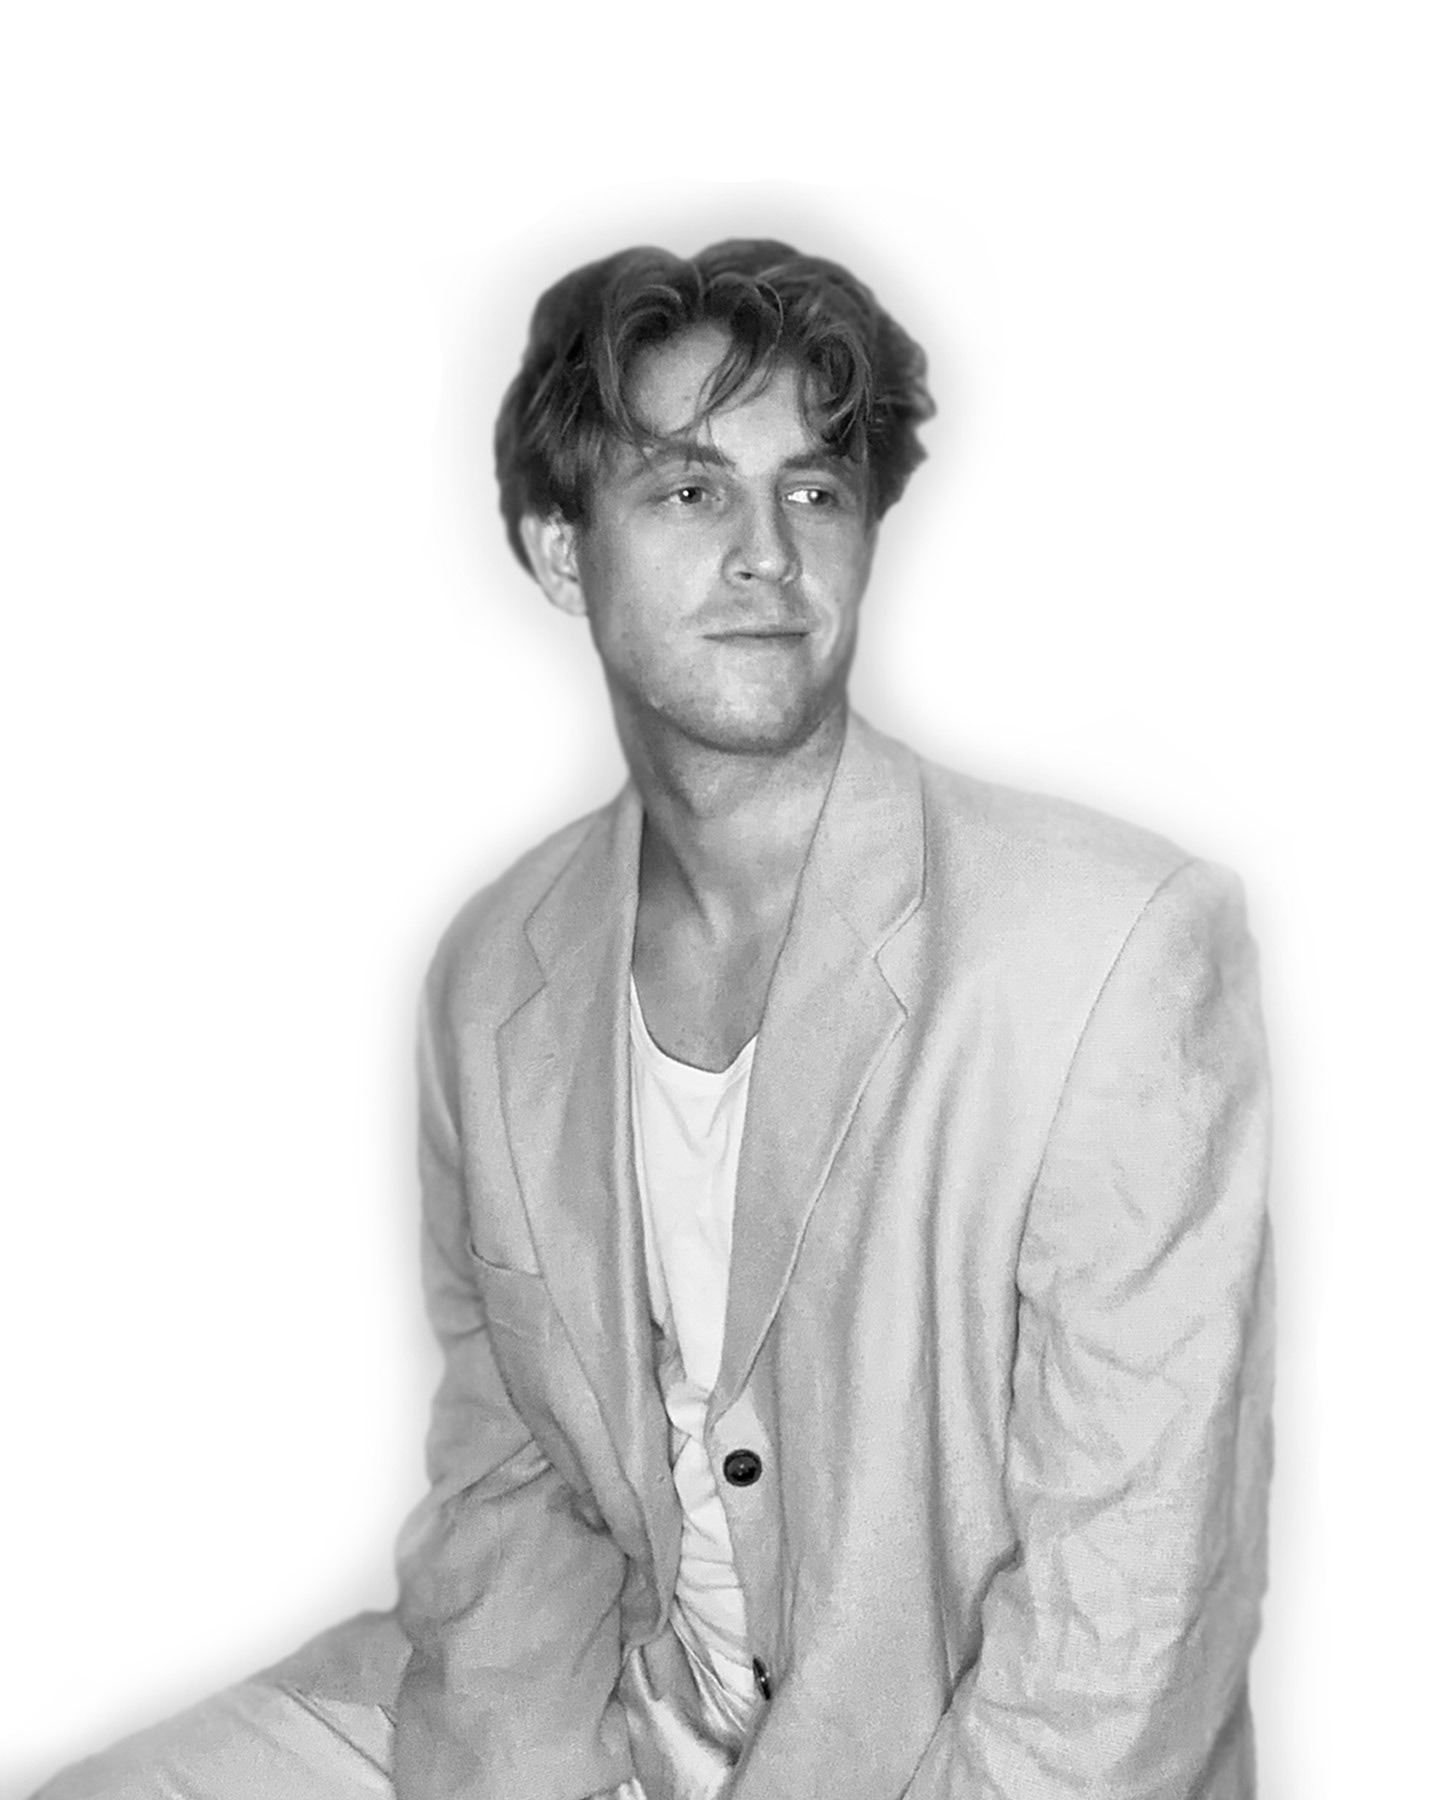
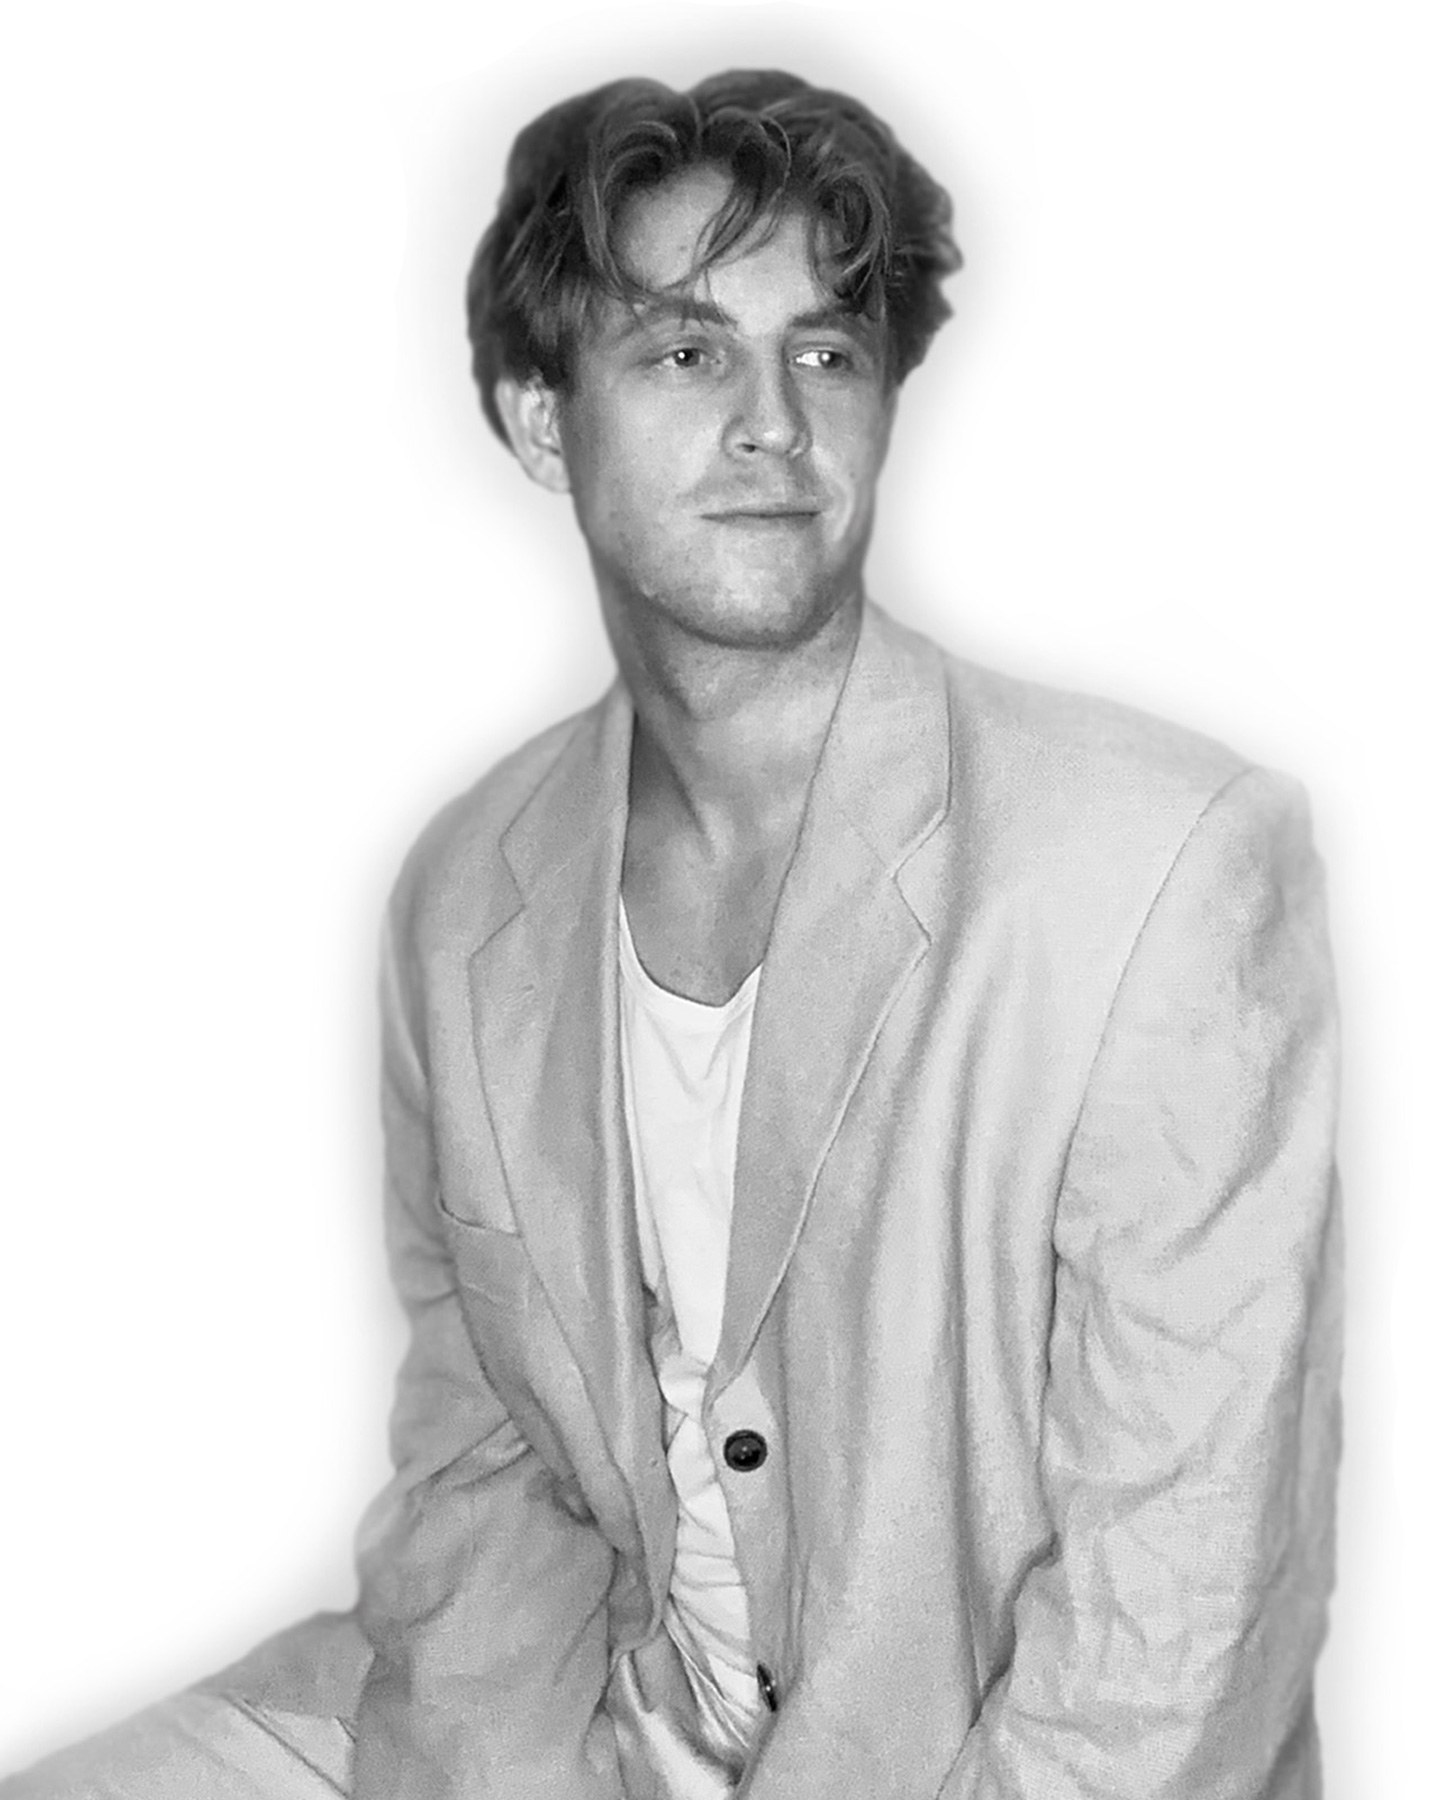
more fixes

Changed region(s): [[0.0, 0.0, 0.9688, 1.0], [0.3125, 0.9644, 0.3438, 0.9956], [0.125, 0.9956, 0.1562, 1.0]]

diff --git a/src/styles/home.css b/src/styles/home.css
@@ -1,40 +1,70 @@
 .hero {
+  position: relative;
   display: flex;
-  justify-content: space-between;
-  align-items: stretch;
+  align-items: center;
   min-height: 100svh;
   overflow: hidden;
 }
 
 .hero-text {
-  flex: 0.8; /* atitinka 1.2fr */
+  flex: 0.8;
   position: relative;
   padding-left: calc(var(--content-left) - 5dvh);
   display: flex;
-  flex-direction: column;
-  justify-content: center;
-  row-gap: clamp(12px, 2vw, 16px);
+  flex-direction: column; /* natūraliai: viršuje title-wrap, apačioje dots-wrap */
+  justify-content: flex-end; /* visa grupė prispausta prie apačios hero */
   z-index: 3;
 }
 
-.hero-media {
-  flex: 1.3; /* atitinka 1fr */
-  position: relative;
-  z-index: 2;
-  max-height: 100%;
-  background: left center / 100% 100% no-repeat, var(--hero-img) right center / cover no-repeat,
-    linear-gradient(#eee, #ddd);
+.hero-media-wrap {
+  position: absolute;
+  inset: 0;
+  display: flex;
+  justify-content: flex-end;
+  align-items: stretch;
+  pointer-events: none;
+  height: 100%;
 }
 
+/* šitas svarbus */
+.hero-title-wrap {
+  display: flex;
+  flex-direction: column; /* h1 tekstas kabės virš dots ir augs į viršų */
+  align-items: flex-start;
+  flex-grow: 1;
+}
+.hero-dots-wrap {
+  margin-top: 0; /* nereikia atstumo viršuje */
+  margin-bottom: 20px; /* vietoje to tarpas nuo apačios */
+}
+/* Tik desktop – ribojam konteinerio plotį */
+@media (min-width: 1025px) {
+  .hero-media-wrap {
+    max-width: 1500px;
+    margin-inline: auto;
+  }
+}
+
+/* Pats media */
+.hero-media {
+  flex: 0 0 auto;
+  width: 100%;
+  max-width: 100%; /* kiek nori, pvz. foto plotis */
+  background: var(--hero-img) right center / contain no-repeat;
+  height: 100%;
+  z-index: 1;
+}
 .hero-title {
   margin: 0;
-  font-weight: 200;
-  font-size: clamp(34px, 3.8vw, 62px);
+  font-weight: 300;
+  font-size: clamp(34px, 3.8vw, 52px);
   line-height: 1.2;
   max-width: 20ch;
   white-space: normal;
   cursor: grab;
-  /* h1 pats neturi animacijos, tik wrapper viduje */
+
+  display: flex;
+  flex-direction: column-reverse; /* tekstas viduje augs į viršų */
 }
 
 .hero-title.dragging {
@@ -58,12 +88,11 @@
   animation: slideFromLeft 0.6s cubic-bezier(0.22, 0.61, 0.36, 1) forwards;
 }
 
-/* Dots stilius */
 .hero-dots {
   display: flex;
   gap: 10px;
-  margin-top: 20px;
   align-items: center;
+  padding-top: 20px;
 }
 
 .dot {
@@ -129,10 +158,9 @@
   .hero-text {
     display: flex !important;
     flex-direction: column;
-    justify-content: flex-end;
-    margin: 0;
+    margin-top: 300px;
     max-width: 32ch;
-    padding-left: var(--content-left);
+    padding-left: calc(var(--content-left) - 30px);
     padding-right: var(--edge);
     padding-bottom: 12dvh;
     z-index: 2;
@@ -155,7 +183,7 @@
   }
 
   .hero-text {
-    margin: 0;
+    margin-top: 450px;
     margin-left: 20px;
     max-width: 30ch;
     padding-left: calc(var(--content-left) - 40px);

diff --git a/src/components/Hero.tsx b/src/components/Hero.tsx
@@ -31,7 +31,7 @@ export default function Hero() {
     return () => clearInterval(id);
   }, [next]);
 
-  // drag support (tik trigger’is, be h1 judinimo)
+  // drag support
   useEffect(() => {
     const el = titleRef.current;
     if (!el) return;
@@ -52,7 +52,6 @@ export default function Hero() {
     const onMove = (e: PointerEvent) => {
       if (!dragging) return;
       dx = e.clientX - startX;
-      // optional vizualinis feedback (pvz. opacity)
       const opacity = Math.max(0.4, 1 - Math.abs(dx) / 300);
       el.style.opacity = String(opacity);
     };
@@ -62,14 +61,10 @@ export default function Hero() {
       dragging = false;
       el.classList.remove("dragging");
       el.releasePointerCapture(e.pointerId);
+      el.style.opacity = "1";
 
-      el.style.opacity = "1"; // resetinam
-
-      if (dx > 60) {
-        prev();
-      } else if (dx < -60) {
-        next();
-      }
+      if (dx > 60) prev();
+      else if (dx < -60) next();
       dx = 0;
     };
 
@@ -97,27 +92,31 @@ export default function Hero() {
               {cur.title}
             </div>
           </h1>
-        </div>
 
-        <div className="hero-dots" role="tablist" aria-label="Slides">
-          {slides.map((_, idx) => (
-            <button
-              key={idx}
-              role="tab"
-              aria-selected={i === idx}
-              aria-controls={`slide-${idx}`}
-              className={`dot ${i === idx ? "active" : ""}`}
-              onClick={() => go(idx, idx > i ? "right" : "left")}
-            >
-              <span className="visually-hidden">
-                Slide {idx + 1} of {slides.length}
-              </span>
-            </button>
-          ))}
+          <div className="hero-dots-wrap">
+            <div className="hero-dots" role="tablist" aria-label="Slides">
+              {slides.map((_, idx) => (
+                <button
+                  key={idx}
+                  role="tab"
+                  aria-selected={i === idx}
+                  aria-controls={`slide-${idx}`}
+                  className={`dot ${i === idx ? "active" : ""}`}
+                  onClick={() => go(idx, idx > i ? "right" : "left")}
+                >
+                  <span className="visually-hidden">
+                    Slide {idx + 1} of {slides.length}
+                  </span>
+                </button>
+              ))}
+            </div>
+          </div>
         </div>
       </div>
 
-      <div className="hero-media" aria-hidden="true" />
+      <div className="hero-media-wrap">
+        <div className="hero-media" aria-hidden="true" />
+      </div>
     </section>
   );
 }

diff --git a/src/styles/header.css b/src/styles/header.css
@@ -1,43 +1,46 @@
-/* === Header height var (jei jau turi, palik) === */
 :root {
+  --edge: clamp(16px, 4vw, 64px); /* universalus šoninis tarpas */
   --header-h: clamp(56px, 9svh, 84px);
 }
 
-/* ===== Header bar ===== */
+/* Header bar */
 .site-header {
   position: fixed;
   top: 0;
   left: 0;
   right: 0;
-  z-index: 100; /* virš overlay */
-  color: #000; /* paveldi brand/burger spalvą */
+  z-index: 100;
+  color: #000;
   background: transparent;
 }
 
 .header-row {
   min-height: var(--header-h);
   display: flex;
-  align-items: flex-start;
+  align-items: center;
   justify-content: space-between;
-  padding-block: clamp(12px, 2.4vw, 20px);
-  padding-inline: calc(var(--edge) - 5dvh);
+
+  /* vietoj vw → vh */
+  padding-inline: calc(var(--edge) - 40px);
 }
 
 /* Brand */
 .brand {
   display: inline-flex;
   flex-direction: column;
-  gap: 2px;
+  gap: 0.2em; /* kad skaluotųsi su height */
   text-decoration: none;
   color: inherit;
 }
+
 .brand-title {
   font-weight: 200;
   line-height: 1;
-  font-size: 28px;
+  font-size: clamp(18px, 2.8vh, 28px);
 }
+
 .brand-sub {
-  font-size: 15px;
+  font-size: clamp(12px, 1.8vh, 14px); /* irgi pagal height */
   font-weight: 600;
   color: #000;
   line-height: 1;
@@ -45,7 +48,6 @@
 .brand:hover {
   text-decoration: none;
 }
-
 /* Burger / BACK */
 .menu-btn {
   display: inline-flex;
@@ -165,7 +167,7 @@
   color: #fff;
   text-decoration: none;
   font-weight: 700;
-  font-size: clamp(28px, 8vw, 80px);
+  font-size: clamp(28px, 9.5vmin, 90px);
   line-height: 1.2;
   display: block;
 }

diff --git a/src/components/header.tsx b/src/components/header.tsx
@@ -11,7 +11,7 @@ export default function Header() {
         <div className="container header-row">
           <Link to="/" className="brand" onClick={close}>
             <span className="brand-title">arsenij v.</span>
-            <span className="brand-sub">graphic design &amp; web dev</span>
+            <span className="brand-sub">graphic &amp; web development</span>
           </Link>
 
           {/* burger -> BACK */}

diff --git a/src/styles/profile.css b/src/styles/profile.css
@@ -167,8 +167,8 @@
 .profile .section-title {
   padding-left: calc(var(--content-left) - 40px);
   padding-right: var(--edge);
-  padding-top: clamp(12px, 7svh, 80px);
-  font-weight: 300;
+  padding-top: clamp(12px, 50svh, 180px);
+  font-weight: 400;
 }
 @media (max-width: 960px) {
   .profile .section-title {
